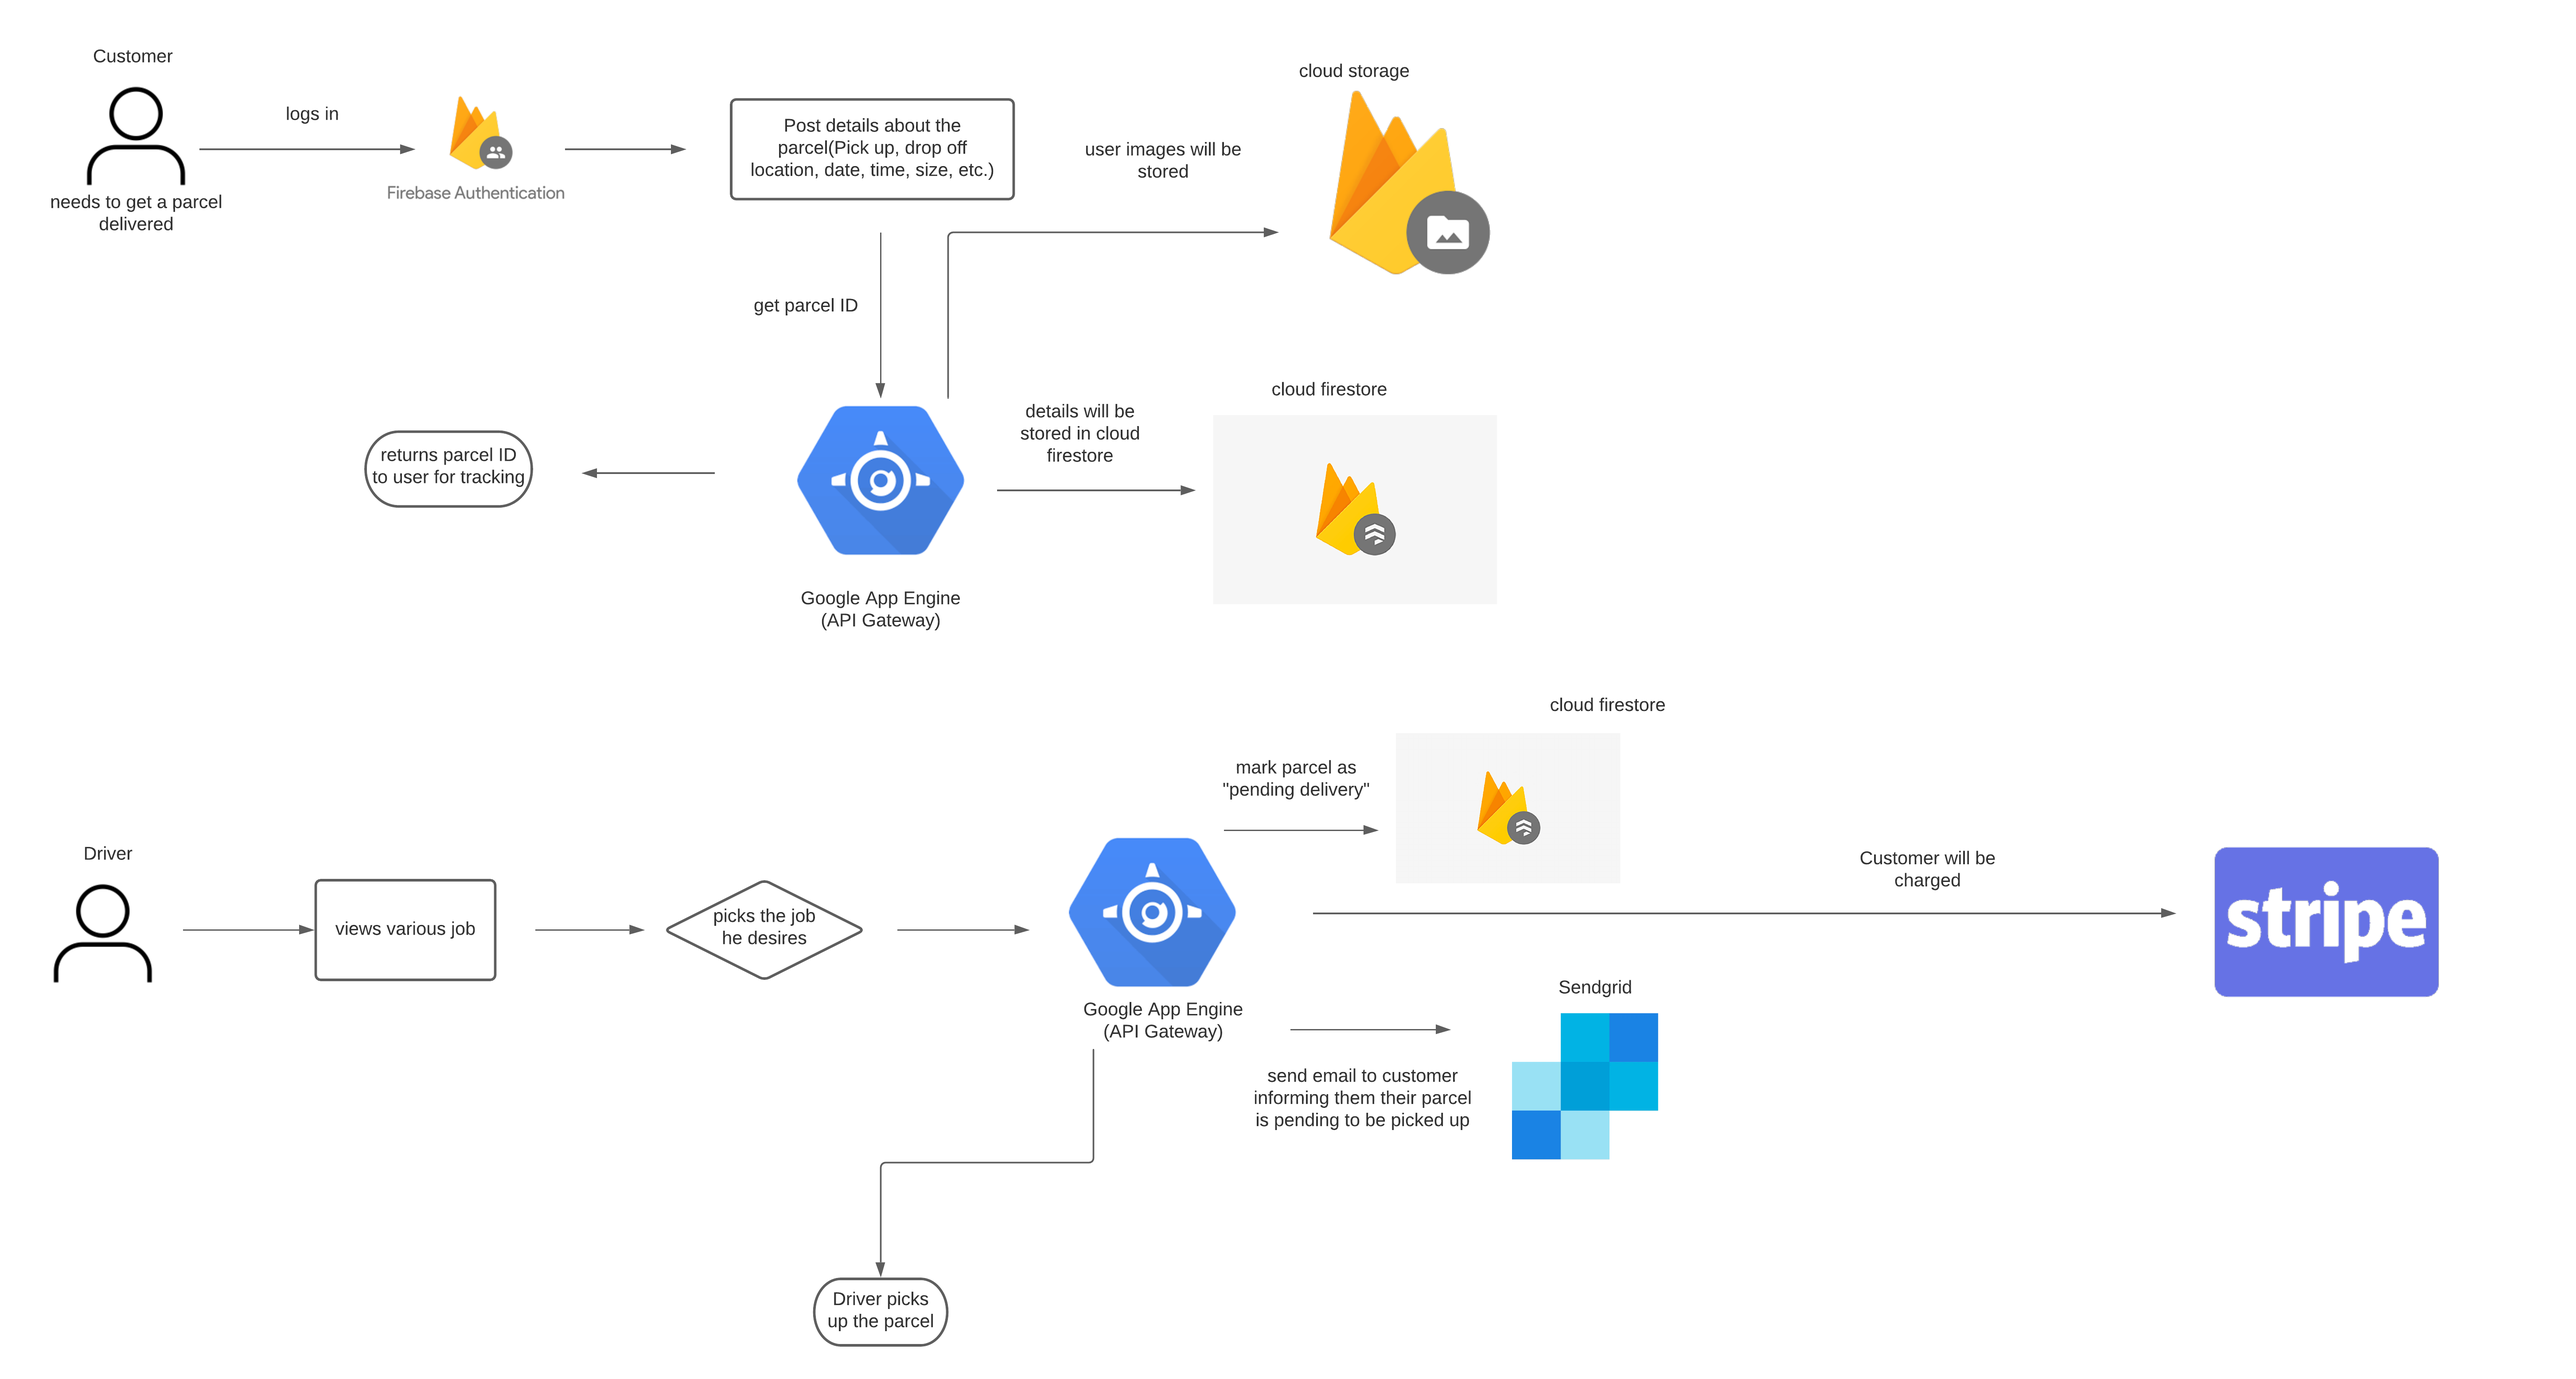
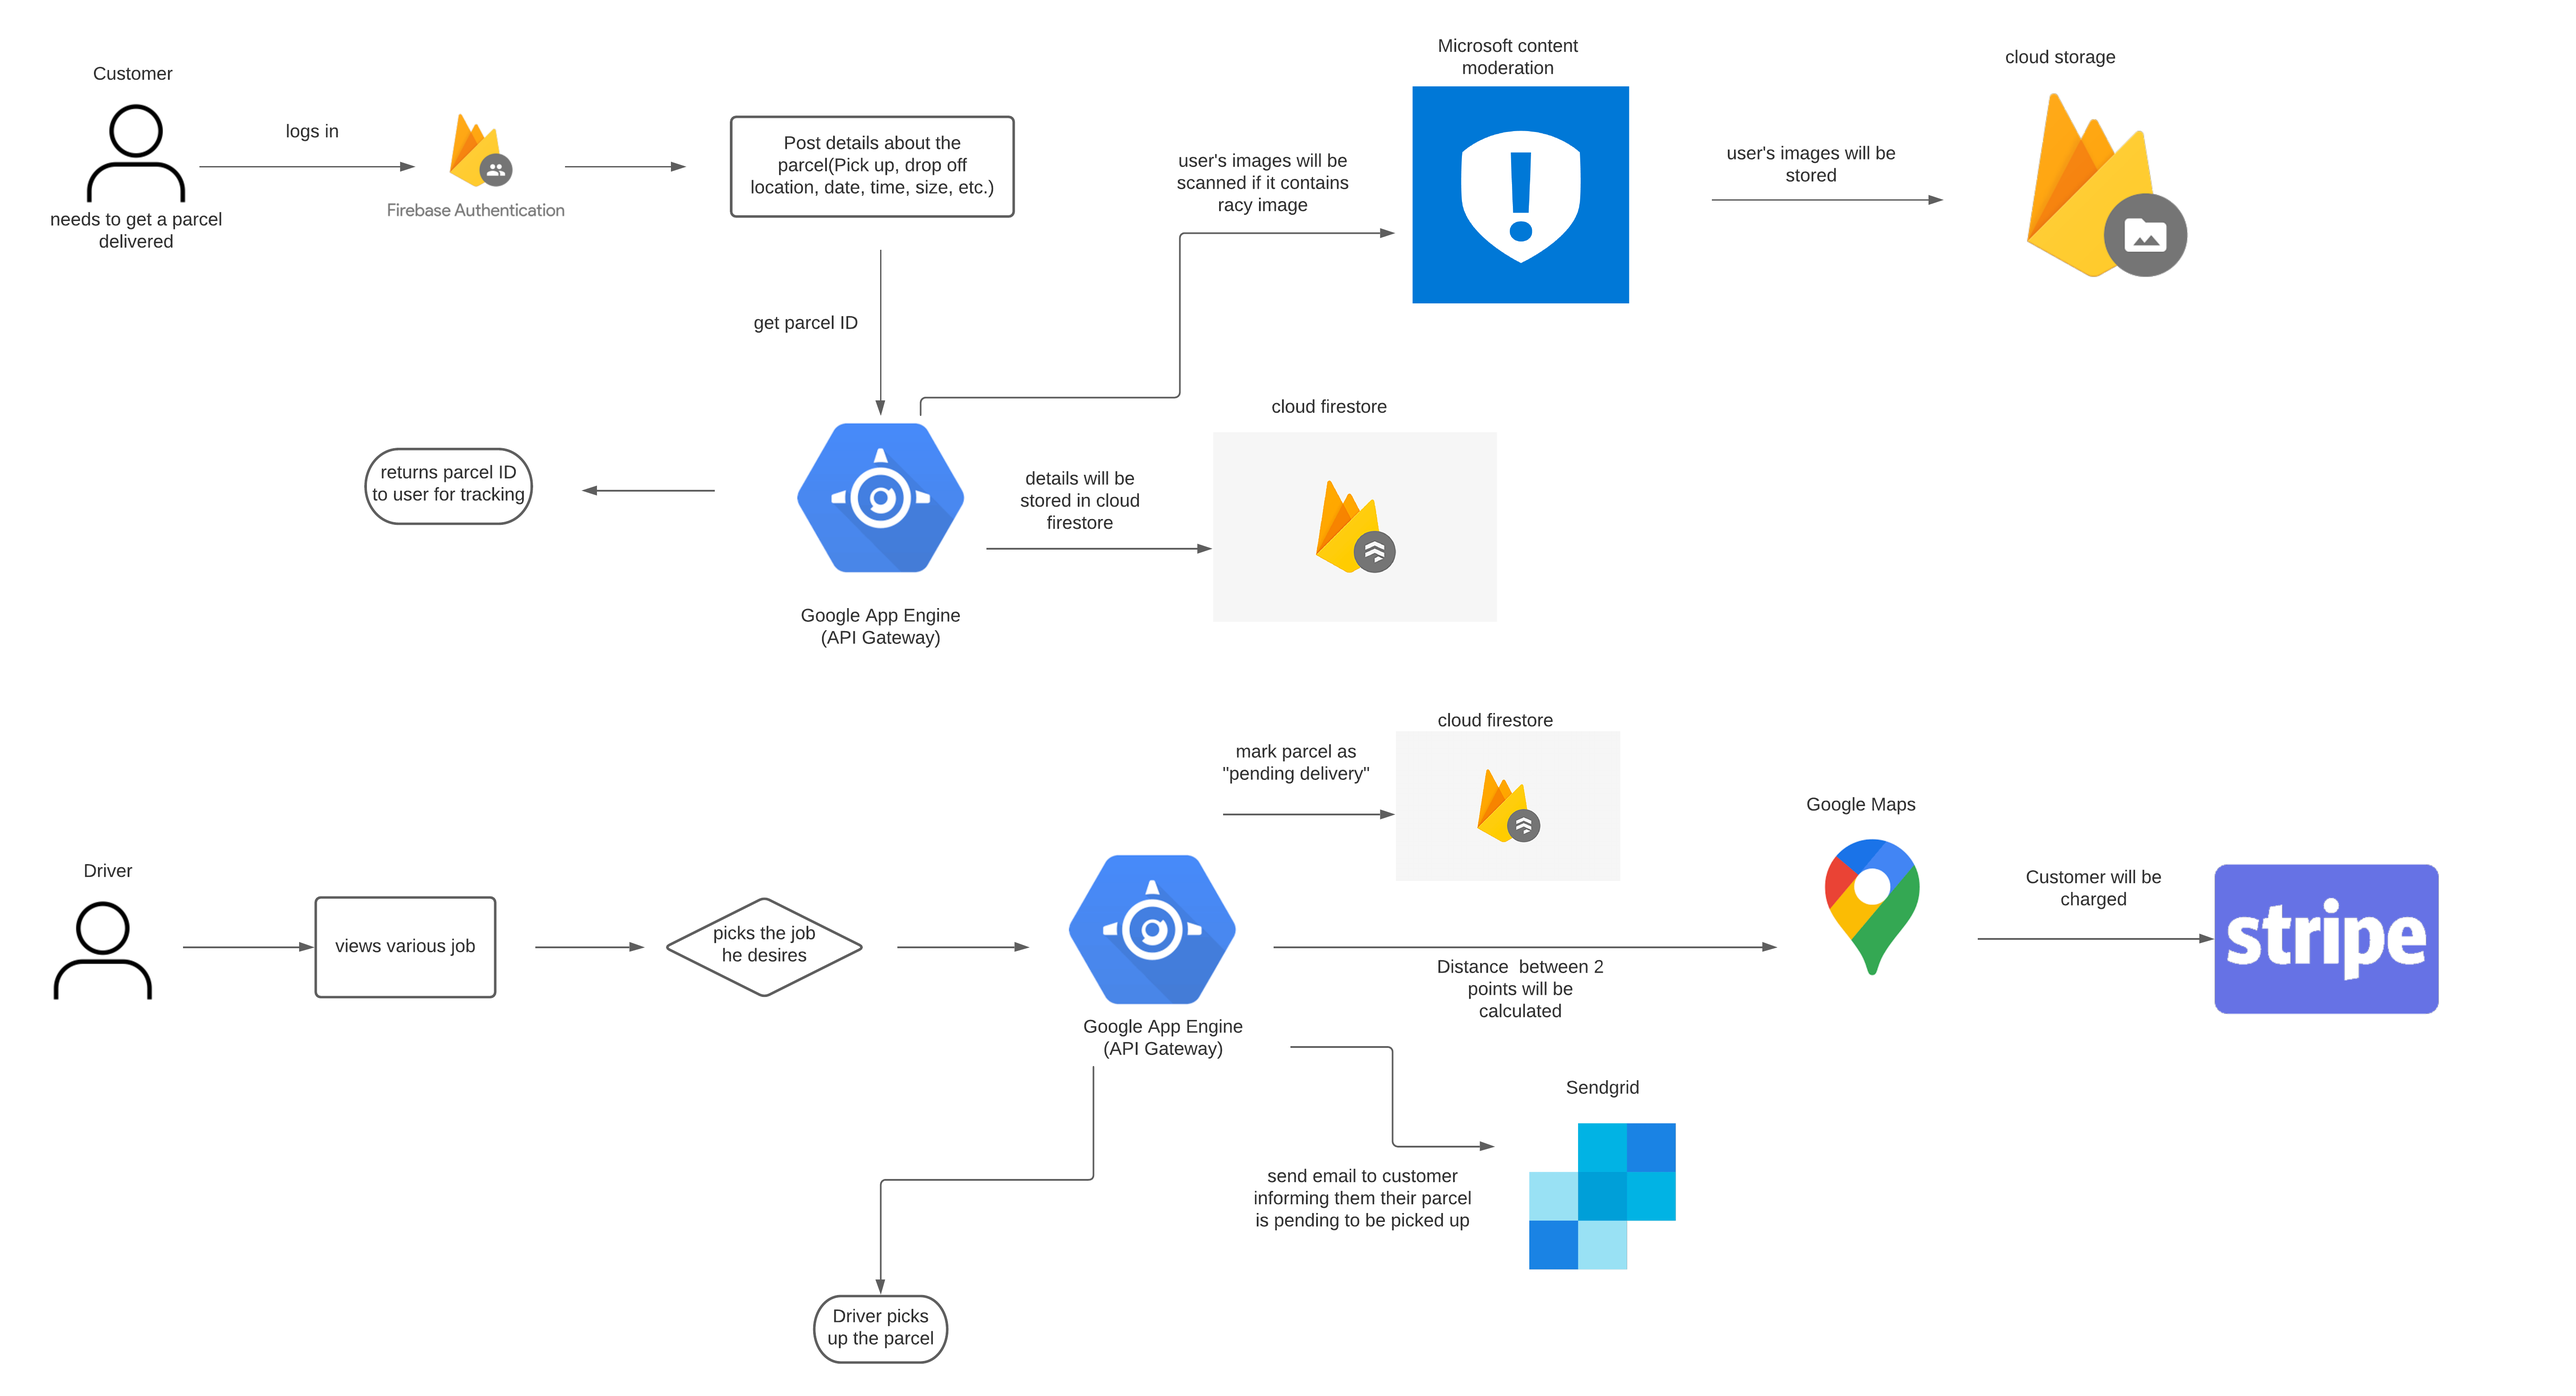
Check user's image for racy content

diff --git a/code/backend/src/main/java/cloudcomputing/controllers/CreateNewParcel.kt b/code/backend/src/main/java/cloudcomputing/controllers/CreateNewParcel.kt
@@ -5,7 +5,7 @@ import com.google.firebase.cloud.FirestoreClient
 import io.javalin.http.Context
 import io.javalin.http.Handler
 import cloudcomputing.models.Parcel
-import com.google.cloud.storage.Bucket
+import cloudcomputing.utils.Moderate
 import com.google.firebase.cloud.StorageClient
 import io.javalin.core.util.FileUtil
 import java.io.FileInputStream
@@ -27,18 +27,22 @@ class CreateNewParcel: Handler {
             val firebaseAuth = FirebaseAuth.getInstance()
             try {
                 firebaseAuth.getUser(uid)
-                val parcelRef = docRef.document()
-                parcelRef.create(Parcel(uid, pickupAddress, dropOffAddress,
-                    time, description, false))
                 FileUtil.streamToFile(fileUpload.content, "upload/" + fileUpload.filename)
-                StorageClient.getInstance().bucket().create(parcelRef.id,
-                    FileInputStream("upload/" + fileUpload.filename))
-                context.res.status = 200
+                val moderate = Moderate()
+                if(moderate.image(FileInputStream("upload/" + fileUpload.filename))){
+                    context.result("Your uploaded image maybe an racy image!")
+                } else {
+                    val parcelRef = docRef.document()
+                    parcelRef.create(Parcel(uid, pickupAddress, dropOffAddress,
+                        time, description, false))
+                    StorageClient.getInstance().bucket().create(parcelRef.id,
+                        FileInputStream("upload/" + fileUpload.filename))
+                    context.res.status = 200
+                }
             } catch (exception: Exception){
                 context.res.status = 401
                 context.result("Unauthorized user")
             }
-
         } else {
             context.result("Invalid data")
         }

diff --git a/code/backend/src/main/java/cloudcomputing/utils/Moderate.kt b/code/backend/src/main/java/cloudcomputing/utils/Moderate.kt
@@ -1,0 +1,20 @@
+package cloudcomputing.utils
+
+import com.microsoft.azure.cognitiveservices.vision.contentmoderator.ContentModeratorManager
+import com.microsoft.azure.cognitiveservices.vision.contentmoderator.models.AzureRegionBaseUrl
+import com.microsoft.azure.cognitiveservices.vision.contentmoderator.models.EvaluateFileInputOptionalParameter
+import java.io.FileInputStream
+
+class Moderate {
+
+    private val apiKey = "5989c312fe00460ba3bc8054a9c0509a"
+    private val endPoint = "https://cloudcomputinga2.cognitiveservices.azure.com/"
+
+    fun image(imageToModerate: FileInputStream): Boolean{
+        val client = ContentModeratorManager.authenticate(
+            AzureRegionBaseUrl.fromString(endPoint), apiKey)
+        val evaluate = client.imageModerations().evaluateFileInput(imageToModerate.readAllBytes(),
+            EvaluateFileInputOptionalParameter().withCacheImage(true))
+        return evaluate.isImageRacyClassified
+    }
+}
